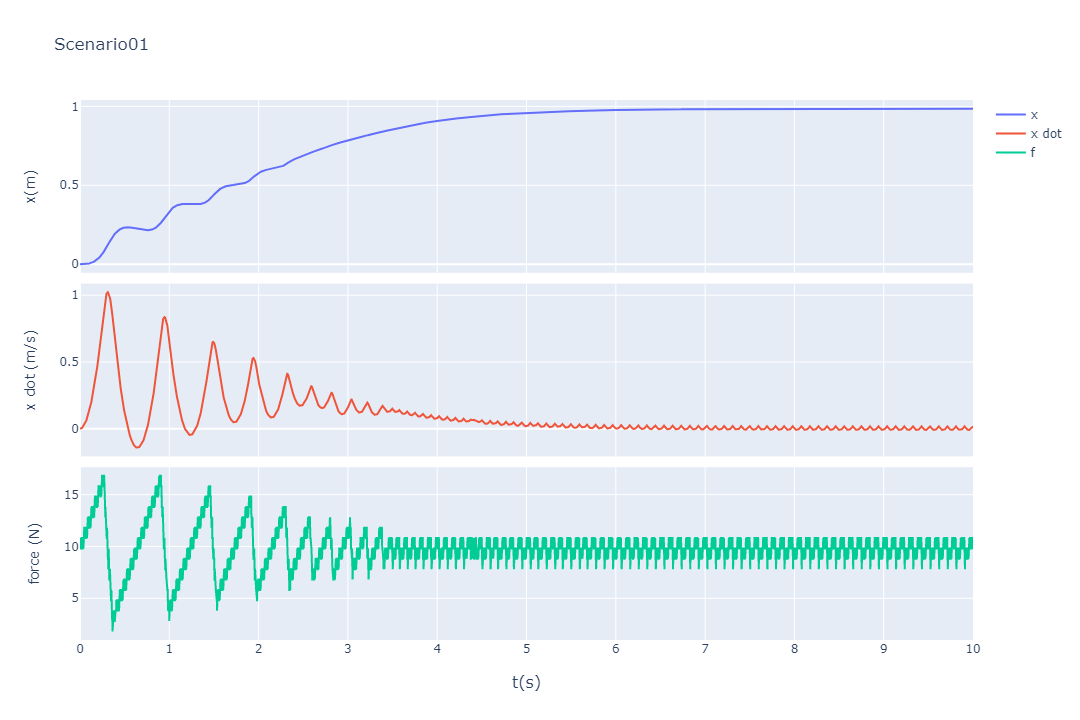
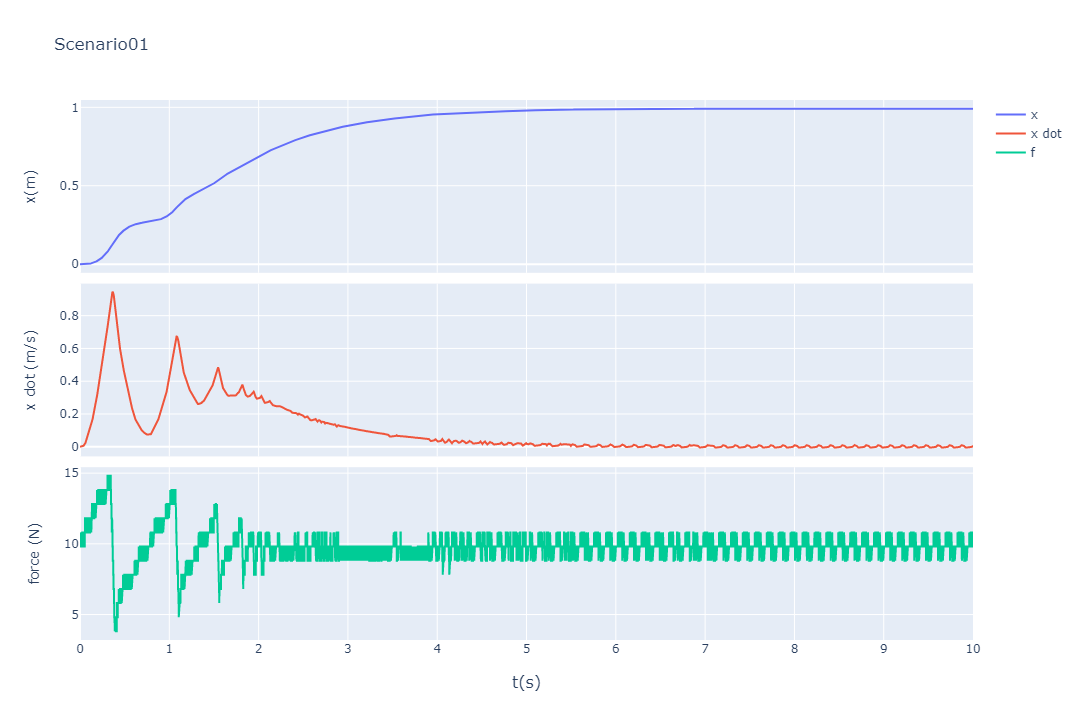
Final Sc 1

diff --git a/scenarios/scenario_01/scenario_01.html b/scenarios/scenario_01/scenario_01.html
@@ -50,8 +50,8 @@
         
 
         // parsing and collecting nodes and edges from the python
-        nodes = new vis.DataSet([{"color": "blue", "id": 0, "label": "N0", "shape": "dot"}, {"color": "blue", "id": 1, "label": "N1", "shape": "dot"}, {"color": "red", "id": 2, "label": "N2", "shape": "dot"}, {"color": "red", "id": 3, "label": "N3", "shape": "dot"}, {"color": "green", "id": 4, "label": "N4", "shape": "dot"}, {"color": "green", "id": 5, "label": "N5", "shape": "dot"}, {"color": "green", "id": 6, "label": "N6", "shape": "dot"}, {"color": "green", "id": 7, "label": "N7", "shape": "dot"}, {"color": "green", "id": 8, "label": "N8", "shape": "dot"}, {"color": "green", "id": 9, "label": "N9", "shape": "dot"}, {"color": "green", "id": 10, "label": "N10", "shape": "dot"}, {"color": "green", "id": 11, "label": "N11", "shape": "dot"}, {"color": "green", "id": 12, "label": "N12", "shape": "dot"}]);
-        edges = new vis.DataSet([{"arrows": "to", "from": 0, "title": "C1 : 0.31072372934945913", "to": 3}, {"arrows": "to", "from": 1, "title": "C2 : 0.26999981982291654", "to": 2}, {"arrows": "to", "from": 1, "title": "C3 : 0.9769181161985789", "to": 3}, {"arrows": "to", "from": 4, "title": "C5 : 1.0", "to": 3}, {"arrows": "to", "from": 1, "title": "C6 : 0.9014211366158575", "to": 4}, {"arrows": "to", "from": 0, "title": "C7 : 0.977379777971513", "to": 5}, {"arrows": "to", "from": 5, "title": "C8 : 0.9659784210905642", "to": 2}, {"arrows": "to", "from": 1, "title": "C9 : 0.23008129246501263", "to": 5}, {"arrows": "to", "from": 6, "title": "C11 : 1.0", "to": 5}, {"arrows": "to", "from": 1, "title": "C12 : 0.4712738242838932", "to": 7}, {"arrows": "to", "from": 7, "title": "C13 : 1.0", "to": 4}, {"arrows": "to", "from": 0, "title": "C14 : -0.035765315310760215", "to": 6}, {"arrows": "to", "from": 0, "title": "C16 : -0.9272159247770284", "to": 8}, {"arrows": "to", "from": 8, "title": "C17 : 1.0", "to": 7}, {"arrows": "to", "from": 9, "title": "C19 : 1.0", "to": 8}, {"arrows": "to", "from": 0, "title": "C21 : 0.977379777971513", "to": 10}, {"arrows": "to", "from": 10, "title": "C22 : 1.0", "to": 6}, {"arrows": "to", "from": 11, "title": "C25 : 1.0", "to": 9}, {"arrows": "to", "from": 1, "title": "C27 : 0.4712738242838932", "to": 12}, {"arrows": "to", "from": 12, "title": "C28 : 1.0", "to": 11}]);
+        nodes = new vis.DataSet([{"color": "blue", "id": 0, "label": "N0", "shape": "dot"}, {"color": "blue", "id": 1, "label": "N1", "shape": "dot"}, {"color": "red", "id": 2, "label": "N2", "shape": "dot"}, {"color": "red", "id": 3, "label": "N3", "shape": "dot"}, {"color": "green", "id": 4, "label": "N4", "shape": "dot"}, {"color": "green", "id": 5, "label": "N5", "shape": "dot"}, {"color": "green", "id": 6, "label": "N6", "shape": "dot"}, {"color": "green", "id": 7, "label": "N7", "shape": "dot"}, {"color": "green", "id": 8, "label": "N8", "shape": "dot"}, {"color": "green", "id": 9, "label": "N9", "shape": "dot"}, {"color": "green", "id": 10, "label": "N10", "shape": "dot"}, {"color": "green", "id": 12, "label": "N12", "shape": "dot"}, {"color": "green", "id": 13, "label": "N13", "shape": "dot"}]);
+        edges = new vis.DataSet([{"arrows": "to", "from": 0, "title": "C0 : 0.2440748854933139", "to": 2}, {"arrows": "to", "from": 0, "title": "C1 : 0.23673799335066326", "to": 3}, {"arrows": "to", "from": 1, "title": "C2 : -0.28159760549250734", "to": 2}, {"arrows": "to", "from": 1, "title": "C3 : 0.5623367787110978", "to": 3}, {"arrows": "to", "from": 0, "title": "C4 : -0.6755636097610245", "to": 4}, {"arrows": "to", "from": 4, "title": "C5 : 0.13502148124134372", "to": 3}, {"arrows": "to", "from": 1, "title": "C6 : -0.8374613772280399", "to": 4}, {"arrows": "to", "from": 1, "title": "C7 : 0.9182313338491379", "to": 5}, {"arrows": "to", "from": 5, "title": "C8 : 0.8337748161820187", "to": 2}, {"arrows": "to", "from": 0, "title": "C9 : 0.22501349578245944", "to": 5}, {"arrows": "to", "from": 0, "title": "C10 : -0.3793057136508484", "to": 6}, {"arrows": "to", "from": 6, "title": "C11 : -0.36017270815208224", "to": 4}, {"arrows": "to", "from": 1, "title": "C12 : -0.5668703135964508", "to": 7}, {"arrows": "to", "from": 7, "title": "C13 : 0.36824465278478047", "to": 5}, {"arrows": "to", "from": 0, "title": "C14 : 0.2440748854933139", "to": 7}, {"arrows": "to", "from": 1, "title": "C15 : 0.6592209375573195", "to": 6}, {"arrows": "to", "from": 8, "title": "C17 : 1.0", "to": 7}, {"arrows": "to", "from": 1, "title": "C19 : -0.16501969170323405", "to": 9}, {"arrows": "to", "from": 9, "title": "C20 : -0.9059480003422171", "to": 6}, {"arrows": "to", "from": 10, "title": "C22 : 1.0", "to": 9}, {"arrows": "to", "from": 12, "title": "C26 : 0.3409069393648183", "to": 8}, {"arrows": "to", "from": 0, "title": "C27 : -0.858274231811305", "to": 9}, {"arrows": "to", "from": 0, "title": "C28 : 0.639210784221228", "to": 12}, {"arrows": "to", "from": 0, "title": "C29 : -0.858274231811305", "to": 10}, {"arrows": "to", "from": 0, "title": "C30 : -0.9800422836626927", "to": 13}, {"arrows": "to", "from": 13, "title": "C31 : 1.0", "to": 12}]);
 
         // adding nodes and edges to the graph
         data = {nodes: nodes, edges: edges};

diff --git a/scenarios/scenario_01/scenario.py b/scenarios/scenario_01/scenario.py
@@ -133,5 +133,5 @@ class Scenario01:
                                               disturbance_magnitude=disturbance_magnitude,
                                               scenario=self.__class__.__name__)
         fig.show()
-        fig.write_image(f"{self.file_name}.png") 
+        fig.write_image(f"{self.file_name}.png")
         genome.visualize(self.file_name)

diff --git a/main.py b/main.py
@@ -1,7 +1,7 @@
-from scenarios.scenario_08.scenario import Scenario08
+from scenarios.scenario_01.scenario import Scenario01
 
 if __name__ == "__main__":
-    scenario = Scenario08()
+    scenario = Scenario01()
     try:
         scenario.run()
     except KeyboardInterrupt:
